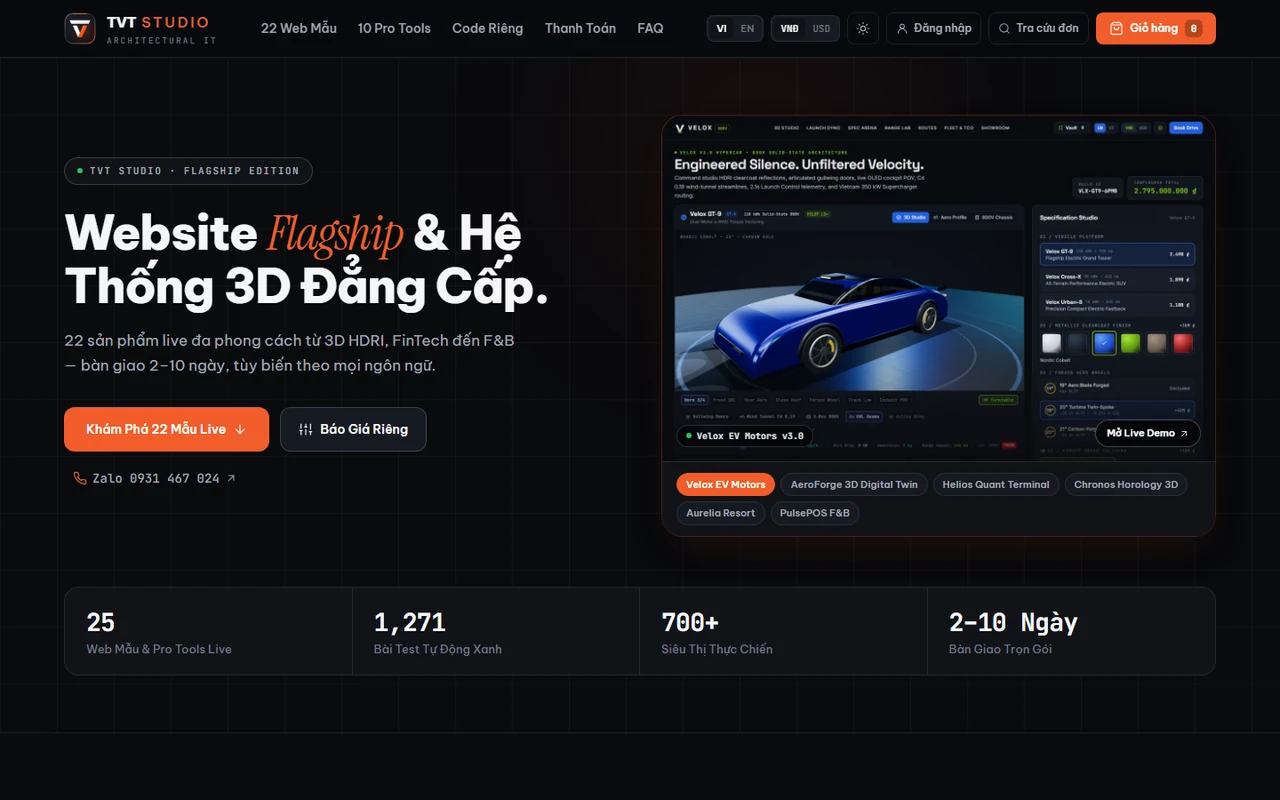
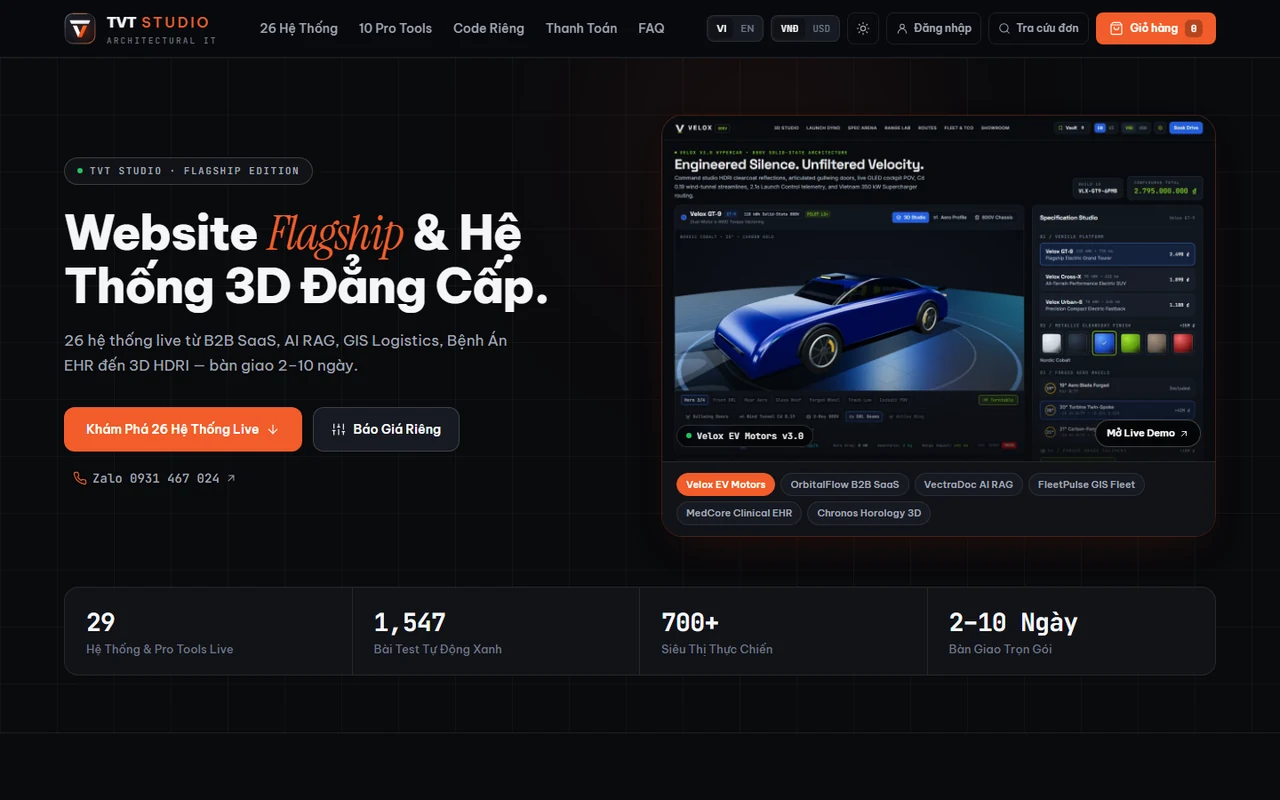
feat(v7.0): add 4 enterprise freelance platforms (OrbitalFlow SaaS, VectraDoc AI RAG, FleetPulse GIS, MedCore EHR) — 26 live systems

diff --git a/src/engines/catalog.ts b/src/engines/catalog.ts
@@ -1034,6 +1034,186 @@ export const CATALOG_PRODUCTS: TemplateProduct[] = [
     },
     metricsBadge: '3D TOURBILLON CALIBRE · 4HZ AUDIO · 26.9M',
   },
+  {
+    id: 'orbitalflow-saas',
+    sku: 'TVT-SAAS-23',
+    name: 'OrbitalFlow B2B SaaS',
+    subtitle: {
+      vi: 'Nền Tảng B2B SaaS Đa Tenant, RBAC, Gantt Đường Găng & Stripe Metering',
+      en: 'Multi-Tenant B2B SaaS, RBAC Matrix, Gantt CPM & Stripe Proration Billing',
+    },
+    tagline: {
+      vi: 'Hệ thống SaaS chuẩn doanh nghiệp Linear × Stripe: chuyển tổ chức đa tenant, phân quyền RBAC khóa chức năng thật, Sprint Kanban + Gantt CPM, tính cước Metering/Proration & ký HMAC-SHA256 Webhook.',
+      en: 'Linear × Stripe B2B SaaS: multi-tenant org switcher, live RBAC permission enforcement, Sprint Kanban + CPM Critical Path Gantt, usage-based proration billing & HMAC-SHA256 webhook debugger.',
+    },
+    category: 'saas-ai',
+    categoryLabel: { vi: 'SaaS & AI', en: 'SaaS & AI' },
+    priceVnd: 24_900_000,
+    originalPriceVnd: 38_500_000,
+    priceUsd: 999,
+    originalPriceUsd: 1_540,
+    deliveryDaysMin: 5,
+    deliveryDaysMax: 9,
+    liveUrl: 'https://tvt987.github.io/orbitalflow-saas/',
+    previewImage: './media/orbitalflow-saas.webp',
+    previewBadge: 'MULTI-TENANT RBAC · GANTT CPM · STRIPE',
+    featuredRank: 5,
+    stack: ['React 19', 'RBAC Matrix', 'Gantt CPM', 'HMAC-SHA256'],
+    deliverables: {
+      vi: [
+        'Quản lý đa tổ chức (Multi-Tenant) kèm ma trận phân quyền RBAC 4 vai trò khóa hành động thực tế',
+        'Bảng Sprint Kanban có giới hạn WIP, biểu đồ Gantt tính đường găng CPM & đồ thị Burnup SVG',
+        'Động cơ tính cước Stripe-style (Ghế + API Metering bậc thang + Proration theo ngày + Hóa đơn A4)',
+        'Quản lý API Key, ký Webhook HMAC-SHA256, mô phỏng Retry Backoff & Nhật ký Audit chuỗi băm SHA-256',
+      ],
+      en: [
+        'Multi-tenant workspace switcher with live 4-role RBAC capability enforcement & denied-action audit logs',
+        'WIP-limited Sprint Kanban, Critical Path Method (CPM) Gantt scheduler & SVG velocity burnup chart',
+        'Stripe-style graduated API usage metering, daily mid-cycle proration math & printable A4 invoice',
+        'Scoped API key vault, Web Crypto HMAC-SHA256 webhook replay debugger & hash-chained audit ledger',
+      ],
+    },
+    architectureNote: {
+      vi: 'Tích hợp sẵn bản thiết kế backend .NET 10 + PostgreSQL Row-Level Security (tenant_id) + Redis khóa idempotency.',
+      en: 'Includes production .NET 10 + PostgreSQL Row-Level Security (tenant_id) + Redis idempotency blueprint.',
+    },
+    metricsBadge: 'MULTI-TENANT RBAC · GANTT CPM · STRIPE',
+  },
+  {
+    id: 'vectradoc-rag',
+    sku: 'TVT-AI-24',
+    name: 'VectraDoc AI RAG',
+    subtitle: {
+      vi: 'AI Đọc Tài Liệu Hybrid RAG (BM25 + Vector RRF), Trích Dẫn & Che PII',
+      en: 'Enterprise Document Intelligence, Live Hybrid BM25+Vector RRF RAG & PII Guard',
+    },
+    tagline: {
+      vi: 'Không gian AI RAG chạy thuật toán thật ngay trên trình duyệt: nạp tài liệu .txt/.md/.json/.csv, chia chunk trực quan, truy xuất Okapi BM25 + Cosine + RRF, trích dẫn [1][2] tô sáng nguyên văn & che PII chuẩn Luhn.',
+      en: 'Live client-side Hybrid RAG workspace: ingest real files, inspect chunk spans, run genuine Okapi BM25 + TF-IDF Cosine + RRF reranking, highlight verbatim [1][2] citations & run 12-query MRR/NDCG evals.',
+    },
+    category: 'saas-ai',
+    categoryLabel: { vi: 'SaaS & AI', en: 'SaaS & AI' },
+    priceVnd: 25_900_000,
+    originalPriceVnd: 39_900_000,
+    priceUsd: 1_039,
+    originalPriceUsd: 1_599,
+    deliveryDaysMin: 5,
+    deliveryDaysMax: 9,
+    liveUrl: 'https://tvt987.github.io/vectradoc-rag/',
+    previewImage: './media/vectradoc-rag.webp',
+    previewBadge: 'OKAPI BM25 + RRF · 100% RECALL · PII',
+    featuredRank: 6,
+    stack: ['React 19', 'Okapi BM25', 'RRF Hybrid RAG', 'PII Luhn Guard'],
+    deliverables: {
+      vi: [
+        'Nạp tài liệu thật (.txt/.md/.json/.csv) + 3 chiến lược chia Chunk hiển thị ranh giới vị trí chính xác',
+        'Thuật toán Hybrid RAG thật (Okapi BM25 + Cosine Vector + RRF + Reranker) có thanh trượt tỷ trọng alpha',
+        'Tổng hợp câu trả lời bám sát nguồn, bấm [1][2] tô sáng nguyên văn & đo độ trung thực Faithfulness 0–100%',
+        'Lá chắn che PII (Email, SĐT, CCCD, Thẻ tín dụng Luhn), chống Prompt Injection & bộ đo chuẩn MRR/NDCG@5',
+      ],
+      en: [
+        'Live document upload (.txt/.md/.json/.csv) with 3 visual chunking strategies & exact offset spans',
+        'Genuine Okapi BM25 + N-Gram Cosine + Reciprocal Rank Fusion (RRF) + Cross-Encoder reranker',
+        'Grounded extractive synthesis with clickable verbatim [1][2] citation highlights & Faithfulness audit',
+        'Luhn/Regex PII redaction, Prompt Injection guard & 12-query Recall@5 / MRR / NDCG@5 eval harness',
+      ],
+    },
+    architectureNote: {
+      vi: 'Kiến trúc truy xuất lai tối ưu cho tiếng Việt & tiếng Anh, sẵn sàng nối Qdrant / pgvector / FastAPI hoặc Gemini API.',
+      en: 'Bilingual VI/EN hybrid IR architecture architected to plug directly into Qdrant, pgvector, or FastAPI.',
+    },
+    metricsBadge: 'OKAPI BM25 + RRF · 100% RECALL · PII',
+  },
+  {
+    id: 'fleetpulse-gis',
+    sku: 'TVT-GIS-25',
+    name: 'FleetPulse GIS Fleet',
+    subtitle: {
+      vi: 'Điều Phối Đội Xe Bản Đồ Vector, Tối Ưu Tuyến CVRP & Chuỗi Lạnh -18°C',
+      en: 'Real-Time GIS Vector Fleet Control, CVRP 2-Opt Route Optimizer & Cold-Chain IoT',
+    },
+    tagline: {
+      vi: 'Bản đồ điều phối đội xe toàn màn hình: thuật toán CVRP Clarke-Wright + 2-Opt cắt giảm 28,6% quãng đường trong 0,7ms, mô phỏng xe chạy thời gian thực, giám sát chuỗi lạnh -18°C & in lệnh điều vận A4.',
+      en: 'Full-viewport vector city GIS control room: Clarke-Wright + 2-Opt CVRP solver cutting route distance by 28.6% in 0.7ms, animated fleet telemetry, -18°C reefer fault drift & A4 dispatch manifest.',
+    },
+    category: 'enterprise-b2b',
+    categoryLabel: { vi: 'Doanh Nghiệp, HR & FinTech', en: 'Enterprise, Logistics & FinTech' },
+    priceVnd: 27_900_000,
+    originalPriceVnd: 43_000_000,
+    priceUsd: 1_119,
+    originalPriceUsd: 1_720,
+    deliveryDaysMin: 6,
+    deliveryDaysMax: 10,
+    liveUrl: 'https://tvt987.github.io/fleetpulse-gis/',
+    previewImage: './media/fleetpulse-gis.webp',
+    previewBadge: 'CVRP -28.6% KM · VECTOR GIS · -18°C',
+    featuredRank: 7,
+    stack: ['React 19', 'CVRP 2-Opt', 'Vector GIS Map', 'Cold-Chain IoT'],
+    deliverables: {
+      vi: [
+        'Bản đồ vector hành lang TP.HCM – Bình Dương – Đồng Nai có phóng to/thu nhỏ, vùng Geofence & xe di chuyển thật',
+        'Bộ giải tối ưu tuyến đa xe có tải trọng & nhiệt độ (Clarke-Wright + 2-Opt) so sánh Trước/Sau tức thì',
+        'Giám sát chuỗi lạnh -18°C/+4°C kèm nút tiêm sự cố kẹt hầm Thủ Thiêm, hỏng máy lạnh & chèn đơn gấp Rush Order',
+        'Tính nhiên liệu, chi phí vận hành, lượng CO2e tiết kiệm, xuất Manifest CSV BOM & Lệnh điều xe A4',
+      ],
+      en: [
+        'Interactive pan/zoom vector logistics corridor map with geofences, live truck heading & Before/After route diff',
+        'Compartment-aware Clarke-Wright Savings + 2-Opt CVRP optimizer solving 24 stops in <1ms (-28.6% km)',
+        'Cold-chain thermal physics (-18°C/+4°C) with 1-click traffic congestion, reefer fault & rush order injectors',
+        'Fuel/cost/CO2e savings ledger, formula-safe UTF-8 BOM CSV manifest & printable A4 driver dispatch sheet',
+      ],
+    },
+    architectureNote: {
+      vi: 'Toán học Haversine + ray-casting Geofence + tối ưu CVRP thuần TypeScript sẵn sàng nối GPS MQTT / Mapbox.',
+      en: 'Pure TypeScript Haversine, polygon geofence & CVRP optimization ready for live MQTT GPS / Mapbox feeds.',
+    },
+    metricsBadge: 'CVRP -28.6% KM · VECTOR GIS · -18°C',
+  },
+  {
+    id: 'medcore-ehr',
+    sku: 'TVT-MED-26',
+    name: 'MedCore Clinical EHR',
+    subtitle: {
+      vi: 'Bệnh Án Điện Tử EHR, Sóng ECG/SpO2 Canvas, NEWS2 & Chuẩn HL7 FHIR R4',
+      en: 'Clinical EHR Workstation, Live Canvas ECG/SpO2, RCP NEWS2 & HL7 FHIR R4 Interop',
+    },
+    tagline: {
+      vi: 'Trạm bác sĩ chuẩn bệnh viện quốc tế: màn hình Canvas vẽ sóng ECG Lead-II P-QRS-T & SpO2 trực tiếp, thang cấp cứu RCP NEWS2, cảnh báo tương tác thuốc/dị ứng chéo CPOE, lọc thận CrCl & xuất HL7 FHIR R4 JSON.',
+      en: 'Hospital-grade 3-column EHR workstation: live HiDPI Canvas Lead-II ECG & SpO2 waveforms, RCP NEWS2 triage matrix, 24-drug CPOE interaction & allergy hard-stop guard, Cockcroft-Gault CrCl & HL7 FHIR R4 JSON.',
+    },
+    category: 'clinic-proptech',
+    categoryLabel: { vi: 'Y Tế, BĐS & Wellness', en: 'HealthTech, Clinic & PropTech' },
+    priceVnd: 26_900_000,
+    originalPriceVnd: 41_500_000,
+    priceUsd: 1_079,
+    originalPriceUsd: 1_660,
+    deliveryDaysMin: 6,
+    deliveryDaysMax: 10,
+    liveUrl: 'https://tvt987.github.io/medcore-ehr/',
+    previewImage: './media/medcore-ehr.webp',
+    previewBadge: 'LIVE ECG/SPO2 · NEWS2 · HL7 FHIR R4',
+    featuredRank: 8,
+    stack: ['React 19', 'Canvas ECG/PPG', 'CPOE Drug Guard', 'HL7 FHIR R4'],
+    deliverables: {
+      vi: [
+        'Hàng đợi nội trú tự sắp theo mức độ nặng RCP NEWS2 (0–20) cùng dải cảnh báo dị ứng & hồ sơ SOAP',
+        'Màn hình sinh hiệu HTML5 Canvas vẽ sóng ECG Lead-II (4 dạng nhịp tim) & SpO2 Plethysmograph mượt 60fps',
+        'Kê đơn CPOE chặn cứng tương tác thuốc Major, dị ứng chéo Penicillin & tính liều theo cân nặng / lọc thận CrCl',
+        'Xuất gói hồ sơ chuẩn quốc tế HL7 FHIR R4 Bundle JSON (mã LOINC/RxNorm), bảng xét nghiệm CSV BOM & Đơn thuốc A4',
+      ],
+      en: [
+        'Acuity-sorted inpatient ward queue powered by RCP NEWS2 (0–20) scoring, allergy alerts & structured SOAP notes',
+        'Real-time HiDPI HTML5 Canvas Lead-II ECG (4 arrhythmia rhythms) & SpO2 photoplethysmograph monitor',
+        '24-drug CPOE safety engine catching Major DDIs, Penicillin cross-reactivity & Cockcroft-Gault renal dosing',
+        'Spec-compliant HL7 FHIR R4 Bundle JSON (LOINC/RxNorm), UTF-8 BOM lab CSV & formal printable A4 e-Prescription',
+      ],
+    },
+    architectureNote: {
+      vi: 'Thiết kế tách bạch logic dược lâm sàng & chuẩn trao đổi HL7 FHIR R4 giúp tích hợp trực tiếp hệ thống HIS / HIPAA.',
+      en: 'Decoupled clinical decision support & HL7 FHIR R4 serialization architected for HIPAA / HIS integrations.',
+    },
+    metricsBadge: 'LIVE ECG/SPO2 · NEWS2 · HL7 FHIR R4',
+  },
 ];
 
 export function roundVnd(amount: number): number {

diff --git a/src/components/HeroSection.tsx b/src/components/HeroSection.tsx
@@ -15,11 +15,11 @@ interface HeroSectionProps {
 
 const FEATURED_SLIDE_IDS = [
   'velox-ev-motors',
-  'aeroforge-digital-twin',
-  'helios-quant-terminal',
+  'orbitalflow-saas',
+  'vectradoc-rag',
+  'fleetpulse-gis',
+  'medcore-ehr',
   'chronos-horology',
-  'aurelia-resort',
-  'pulse-pos-fnb',
 ];
 
 export const HeroSection: React.FC<HeroSectionProps> = ({ locale, onPreviewLive }) => {
@@ -32,11 +32,11 @@ export const HeroSection: React.FC<HeroSectionProps> = ({ locale, onPreviewLive 
 
   const trustStats = [
     {
-      value: '25',
-      label: locale === 'vi' ? 'Web Mẫu & Pro Tools Live' : 'Live Apps & Pro Tools',
+      value: '29',
+      label: locale === 'vi' ? 'Hệ Thống & Pro Tools Live' : 'Live Apps & Pro Tools',
     },
     {
-      value: '1,271',
+      value: '1,547',
       label: locale === 'vi' ? 'Bài Test Tự Động Xanh' : 'Automated CI Tests',
     },
     {
@@ -107,8 +107,8 @@ export const HeroSection: React.FC<HeroSectionProps> = ({ locale, onPreviewLive 
               style={{ color: 'var(--ink-secondary)' }}
             >
               {locale === 'vi'
-                ? '22 sản phẩm live đa phong cách từ 3D HDRI, FinTech đến F&B — bàn giao 2–10 ngày, tùy biến theo mọi ngôn ngữ.'
-                : '22 diverse live products across 3D HDRI, FinTech & Hospitality — delivered in 2–10 days, custom-built in any stack.'}
+                ? '26 hệ thống live từ B2B SaaS, AI RAG, GIS Logistics, Bệnh Án EHR đến 3D HDRI — bàn giao 2–10 ngày.'
+                : '26 live systems across B2B SaaS, Hybrid AI RAG, GIS Fleet, Clinical EHR & 3D HDRI — delivered in 2–10 days.'}
             </p>
 
             {/* Primary CTA Cluster */}
@@ -117,7 +117,7 @@ export const HeroSection: React.FC<HeroSectionProps> = ({ locale, onPreviewLive 
                 href="#catalog"
                 className="btn-primary inline-flex items-center gap-2 rounded-xl px-6 py-3.5 text-sm font-semibold"
               >
-                <span>{locale === 'vi' ? 'Khám Phá 22 Mẫu Live' : 'Explore 22 Live Demos'}</span>
+                <span>{locale === 'vi' ? 'Khám Phá 26 Hệ Thống Live' : 'Explore 26 Live Systems'}</span>
                 <IconArrowDown className="h-4 w-4" />
               </a>
 

diff --git a/src/engines/__tests__/catalog.test.ts b/src/engines/__tests__/catalog.test.ts
@@ -10,8 +10,8 @@ import {
 } from '../catalog';
 
 describe('Catalog Engine', () => {
-  it('contains all 22 real commercial products with valid live URLs and relative media paths', () => {
-    expect(CATALOG_PRODUCTS).toHaveLength(22);
+  it('contains all 26 real commercial products with valid live URLs and relative media paths', () => {
+    expect(CATALOG_PRODUCTS).toHaveLength(26);
     for (const product of CATALOG_PRODUCTS) {
       expect(product.liveUrl).toMatch(/^https:\/\/tvt987\.github\.io\/.+\/$/);
       expect(product.previewImage).toMatch(/^\.\/media\/.+\.(webp|jpg)$/);
@@ -23,12 +23,12 @@ describe('Catalog Engine', () => {
 
   it('computes accurate category counts across all 5 vertical segments', () => {
     const counts = getCategoryCounts(CATALOG_PRODUCTS);
-    expect(counts.all).toBe(22);
+    expect(counts.all).toBe(26);
     expect(counts['commerce-3d']).toBe(5);
-    expect(counts['clinic-proptech']).toBe(3);
+    expect(counts['clinic-proptech']).toBe(4);
     expect(counts['pos-fnb']).toBe(3);
-    expect(counts['enterprise-b2b']).toBe(6);
-    expect(counts['saas-ai']).toBe(5);
+    expect(counts['enterprise-b2b']).toBe(7);
+    expect(counts['saas-ai']).toBe(7);
   });
 
   it('filters catalog by category and search query across VI/EN and tech stack', () => {

diff --git a/src/components/Navbar.tsx b/src/components/Navbar.tsx
@@ -52,7 +52,7 @@ export const Navbar: React.FC<NavbarProps> = ({
   const [mobileMenuOpen, setMobileMenuOpen] = useState(false);
 
   const navLinks = [
-    { href: '#catalog', label: locale === 'vi' ? '22 Web Mẫu' : '22 Templates' },
+    { href: '#catalog', label: locale === 'vi' ? '26 Hệ Thống' : '26 Systems' },
     { href: '#pro-tools', label: locale === 'vi' ? '10 Pro Tools' : '10 Pro Tools' },
     { href: '#estimator', label: locale === 'vi' ? 'Code Riêng' : 'Custom Build' },
     { href: '#payment-flow', label: locale === 'vi' ? 'Thanh Toán' : 'Payment' },

diff --git a/src/components/CatalogSection.tsx b/src/components/CatalogSection.tsx
@@ -95,7 +95,7 @@ export const CatalogSection: React.FC<CatalogSectionProps> = ({
             01 · {locale === 'vi' ? 'BỘ SƯU TẬP FLAGSHIP' : 'FLAGSHIP COLLECTION'}
           </div>
           <h2 className="font-display mt-2 text-2xl font-extrabold tracking-tight sm:text-4xl">
-            {locale === 'vi' ? '22 Website Thương Mại Live' : '22 Live Commercial Websites'}
+            {locale === 'vi' ? `${products.length} Hệ Thống & Website Live` : `${products.length} Live Commercial Systems`}
           </h2>
         </div>
 

diff --git a/src/engines/__tests__/analyticsAndCms.test.ts b/src/engines/__tests__/analyticsAndCms.test.ts
@@ -197,7 +197,7 @@ describe('Executive Analytics & Cloud Product CMS Engine', () => {
 
   it('converts TemplateProduct to AdminMutationInput cleanly and sorts bundled catalog by featuredRank', () => {
     const bundled = getBundledCmsProducts();
-    expect(bundled).toHaveLength(22);
+    expect(bundled).toHaveLength(26);
     expect(bundled[0].id).toBe('velox-ev-motors');
     expect(bundled[0].featuredRank).toBe(1);
     expect(bundled[1].id).toBe('aeroforge-digital-twin');
